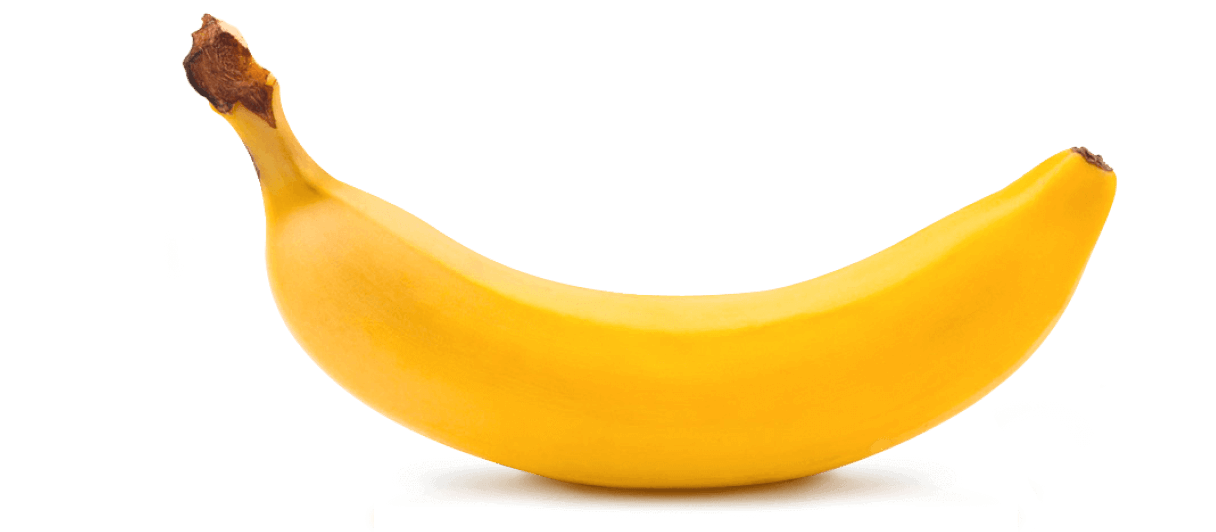
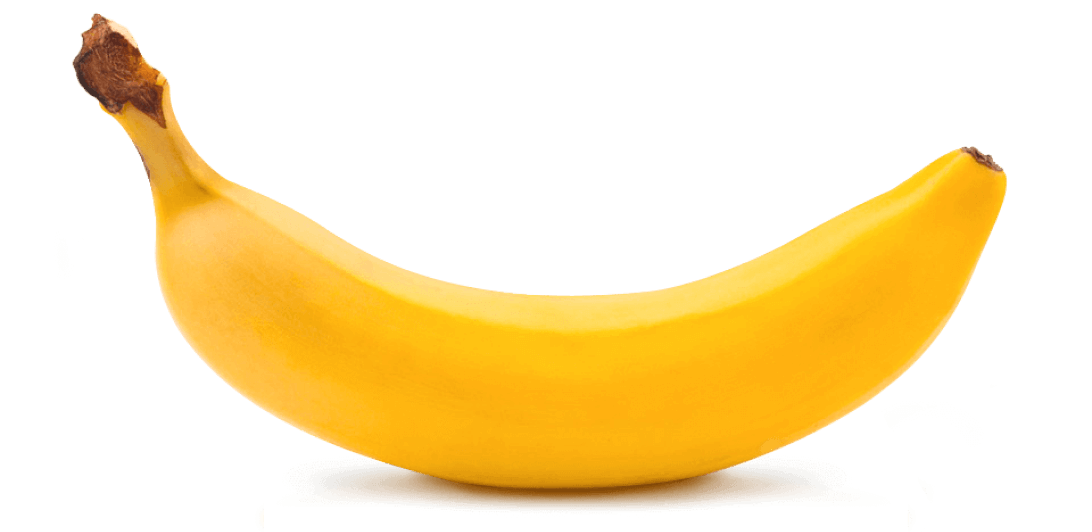
2

diff --git a/src/partials/castomersSay.html b/src/partials/castomersSay.html
@@ -24,8 +24,16 @@
                 <p class="feedback__text">“The Best app I have used to order food in a while, so many options to choose from too, I would recommend to a freind, No questions asked”
                 </p>
                 <div class="feedback__dude">
-                    <img class=" feedback__img" src="../src/images/customers-mobile/dude-mobile1-1x.png" alt="" width="48px">
-                        <ul class="feedback__dude-list list">
+                    <picture>
+                        <source srcset="./images/customers-desctop/dude-desctop1-1x.png 1x, ./images/customers-desctop/dude-desctop1-2x.png 2x"
+                        media="(min-width: 1200px)">
+                        <source srcset="./images/customers-tablet/dude-tablet1-1x.png 1x, ./images/customers-tablet/dude-tablet1-2x.png 2x"
+                        media="(min-width: 768px)">
+                        <source srcset="./images/customers-mobile/dude-mobile1-1x.png 1x, ./images/customers-mobile/dude-mobile1-2x.png 2x"
+                        media="(min-width: 320px)">
+                    <img class=" feedback__img" src="./images/customers-mobile/dude-mobile1-1x.png" alt="" width="48px">
+                </picture>   
+                    <ul class="feedback__dude-list list">
                             <li class="feedback__dude-name">Sumith Shah</li>
                             <li class="feedback__dude-who">Some Dude</li>
                         </ul>
@@ -52,8 +60,16 @@
                 <p class="feedback__text">“The ease with which I can just go in and order what i want was amazing, It has been a very pleasant experience ordering from this app”
                 </p>
                 <div class="feedback__dude">
-                    <img class=" feedback__img" src="../src/images/customers-mobile/dude-mobile2-1x.png" alt="">
-                        <ul class="feedback__dude-list list">
+                    <picture>
+                        <source srcset="./images/customers-desctop/dude-desctop2-1x.png 1x, ./images/customers-desctop/dude-desctop2-2x.png 2x"
+                        media="(min-width: 1200px)">
+                        <source srcset="./images/customers-tablet/dude-tablet2-1x.png 1x, ./images/customers-tablet/dude-tablet2-2x.png 2x"
+                        media="(min-width: 768px)">
+                        <source srcset="./images/customers-mobile/dude-mobile2-1x.png 1x, ./images/customers-mobile/dude-mobile2-2x.png 2x"
+                        media="(min-width: 320px)">
+                    <img class=" feedback__img" src="./images/customers-mobile/dude-mobile2-1x.png" alt="">
+                </picture>    
+                    <ul class="feedback__dude-list list">
                             <li class="feedback__dude-name">Sumith Shah</li>
                             <li class="feedback__dude-who">Some Dude</li>
                         </ul>

diff --git a/src/partials/subscribe.html b/src/partials/subscribe.html
@@ -2,7 +2,15 @@
    
     <div class="subscribe__conteiner container">
         <div class="banan">
-            <img class="banan__img" src="../src/images/customers-mobile/banan-mobile1x.png" alt="">
+           <picture>
+            <source srcset="./images/customers-desctop/banan-desctop1x.png 1x, ./images/customers-desctop/banan-desctop2x.png 2x"
+                 media="(min-width: 1200px)">
+                 <source srcset="./images/customers-tablet/banan-tablet1x.png 1x, ./images/customers-tablet/banan-tablet2x.png 2x"
+                 media="(min-width: 768px)">
+                 <source srcset="./images/customers-mobile/banan-mobile1x.png 1x, ./images/customers-mobile/banan-mobile2x.png 2x"
+                 media="(min-width: 320px)">
+            <img class="banan__img" src="./images/customers-mobile/banan-mobile1x.png" alt="">
+           </picture>
         </div>
         <div class="subcribe-conten">
             <h2 class="subcribe-conten__title">Subscribe To Get Special Offers</h2>

diff --git a/src/sass/sections/_subscribe.scss b/src/sass/sections/_subscribe.scss
@@ -1,5 +1,5 @@
-.subscribe__conteiner{
-    width: 100%;
+.subscribe{
+ background-color: transparent
 }
 .banan{
     justify-content: center;
@@ -10,18 +10,21 @@
       }
      
 }
-.banan__img{
-    width: 280px;
-}
+
 .subscribe__conteiner{
     @media screen and (min-width: $desktop) {
         display: flex;
         flex-direction: row-reverse;
+        justify-content: flex-end;
        }
 }
 .subcribe-conten__title{
     @extend %title;
     @media screen and(max-width:$tablet){
+        display: flex;
+        text-align: start;
+    }
+    @media screen and(min-width:$tablet){
         display: flex;
         text-align: start;
     }

diff --git a/src/sass/sections/_castomersSay.scss b/src/sass/sections/_castomersSay.scss
@@ -1,3 +1,8 @@
+.castomerSay{
+  background-position: center;
+  background-repeat: no-repeat;
+  background-image: url(../images/customers-desctop/fon-desctop1x.png)
+}
 .castomer__title{
     @extend %title;
     text-align: start;
@@ -47,6 +52,8 @@ margin-right: 16px;
     flex-direction: column;
     gap: 2px;
     align-items: flex-start;
+   
+    
 }
 .feedback__dude-name{
     font-weight: 500;
@@ -62,12 +69,8 @@ margin-right: 16px;
     color: var(--primary-text-color);
 
 }
-.castomerSay{
-    background-color: yellow;
-}
-.castomer{
-    width: 100%;
-}
+
+
 .feedback{
     display: flex;
     flex-direction: column;
